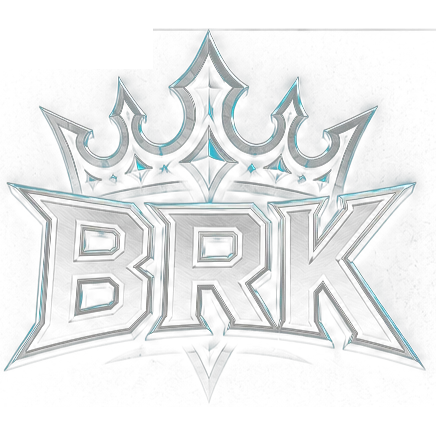
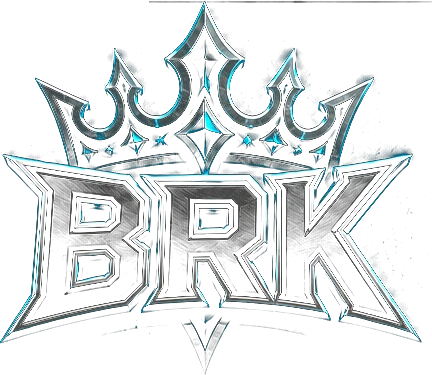
Header: solid+brighter BRK mark, larger, taller bars (reads at nav size)
The nav mark was the luminance-keyed symbol — only bright chrome edges
survived, dark metal interior went transparent, so at ~40px it read as a
faint hollow blob. Regenerated brand-bk-mark by keying ONLY the near-black
background (full solid logo kept) and brightening it so it pops on the dark
navbar; trimmed to content so it fills its box.

Sized it up to function as a navigation logo, not a favicon:
- Public header bar 58->72px, mark 50->58px tall.
- Logged-in header bar 52->60px (toolbar sticky-top, mobile drawer/backdrop
  offsets updated to match), mark 40->48px tall.
- mark img gets ?v=2 to bust the cached old version.

diff --git a/templates/public_base.html b/templates/public_base.html
@@ -18,7 +18,7 @@
   <link rel="icon" type="image/png" href="{{ url_for('static', filename='favicon.png') }}">
   <link rel="manifest" href="{{ url_for('manifest_webmanifest') }}">
   <link rel="apple-touch-icon" href="{{ url_for('static', filename='icons/icon-180.png') }}">
-  <link rel="stylesheet" href="{{ url_for('static', filename='css/bk-theme.css') }}?v=20260622-navtext">
+  <link rel="stylesheet" href="{{ url_for('static', filename='css/bk-theme.css') }}?v=20260622-navmark">
   <style>
     html,
     body {
@@ -33,7 +33,7 @@
       flex-direction: column;
     }
     .bk-public-topbar {
-      min-height: 58px;
+      min-height: 72px;
       display: flex;
       align-items: center;
       gap: 16px;
@@ -54,9 +54,13 @@
       letter-spacing: 0.08em;
     }
     .bk-public-brand img {
-      width: 50px;             /* ~20% larger; the symbol is the brand */
-      height: 50px;
-      object-fit: contain;     /* show the full transparent BRK symbol, no crop, no border box */
+      height: 58px;            /* the BRK mark is the brand anchor — give it real presence */
+      width: auto;
+      display: block;
+    }
+    @media (max-width: 720px) {
+      .bk-public-brand img { height: 46px; }
+      .bk-public-brand { font-size: 20px; }
     }
     .bk-public-nav {
       margin-left: auto;
@@ -121,7 +125,7 @@
   <div class="bk-public-shell">
     <header class="bk-public-topbar">
       <a class="bk-public-brand" href="{{ url_for('frontpage') }}">
-        <img src="/static/brand-bk-mark.webp" alt="Bankroll Kings" loading="eager">
+        <img src="/static/brand-bk-mark.webp?v=2" alt="Bankroll Kings" loading="eager">
         <span>BANKROLL KINGS</span>
       </a>
       <nav class="bk-public-nav" aria-label="Public navigation">

diff --git a/static/css/bk-theme.css b/static/css/bk-theme.css
@@ -196,7 +196,7 @@ body::after {
   /* Legacy in-grid bet slip retired in favour of the floating Ticket drawer.
      Default layout is now 2-col (sidebar + main); the slip column is gone. */
   grid-template-columns: 240px 1fr;
-  grid-template-rows: 52px 1fr;
+  grid-template-rows: 60px 1fr;
   height: 100vh;
   position: relative;
   z-index: 2;
@@ -271,8 +271,8 @@ body::after {
 /* BRK symbol icon in the logged-in topbar (the brand mark; hidden on phones
    where the hamburger already owns the left slot). */
 .bk-topbar-mark {
-  width: 40px;
-  height: 40px;
+  height: 48px;
+  width: auto;
   object-fit: contain;
   margin-left: 14px;
   flex-shrink: 0;
@@ -925,7 +925,7 @@ body::after {
   border: 1px solid var(--window-border, rgba(215,167,79,0.30));
   background: var(--bg);
   position: sticky;
-  top: 65px;
+  top: 73px;
   z-index: 9;
   flex-wrap: wrap;
 }
@@ -3455,10 +3455,10 @@ body::after {
   body.bk-nav-open .bk-nav-toggle-bar:nth-child(2) { opacity: 0; }
   body.bk-nav-open .bk-nav-toggle-bar:nth-child(3) { transform: translateY(-6px) rotate(-45deg); }
 
-  /* Sidebar -> off-canvas drawer under the 52px topbar. */
+  /* Sidebar -> off-canvas drawer under the 60px topbar. */
   .bk-sidebar {
     position: fixed;
-    top: 52px;
+    top: 60px;
     left: 0;
     bottom: 0;
     width: 270px;
@@ -3476,7 +3476,7 @@ body::after {
   .bk-nav-backdrop {
     display: block;
     position: fixed;
-    inset: 52px 0 0 0;
+    inset: 60px 0 0 0;
     background: rgba(2, 6, 8, 0.6);
     backdrop-filter: blur(2px);
     opacity: 0;

diff --git a/templates/bk_base.html b/templates/bk_base.html
@@ -20,7 +20,7 @@
   <link rel="stylesheet" href="https://fonts.googleapis.com/css2?family=Bebas+Neue&family=DM+Mono:wght@400;500&family=DM+Sans:wght@300;400;500;600;700&family=Barlow+Condensed:wght@400;600;700;800&family=JetBrains+Mono:wght@400;600&display=swap">
 
   <!-- ONE theme file styles the entire site -->
-  <link rel="stylesheet" href="{{ url_for('static', filename='css/bk-theme.css') }}?v=20260622-navtext">
+  <link rel="stylesheet" href="{{ url_for('static', filename='css/bk-theme.css') }}?v=20260622-navmark">
   <script defer src="https://unpkg.com/alpinejs@3.14.9/dist/cdn.min.js"></script>
 
   <!-- Page-specific extra styles (optional) -->
@@ -40,7 +40,7 @@
       <span class="bk-nav-toggle-bar"></span>
       <span class="bk-nav-toggle-bar"></span>
     </button>
-    <img class="bk-topbar-mark" src="{{ url_for('static', filename='brand-bk-mark.webp') }}" alt="">
+    <img class="bk-topbar-mark" src="{{ url_for('static', filename='brand-bk-mark.webp') }}?v=2" alt="">
     <a class="bk-site-name" href="{{ url_for('dashboard') }}">BANKROLL KINGS</a>
 
     <div class="bk-header-ticker" aria-label="Live intelligence ticker" title="Hover to pause">